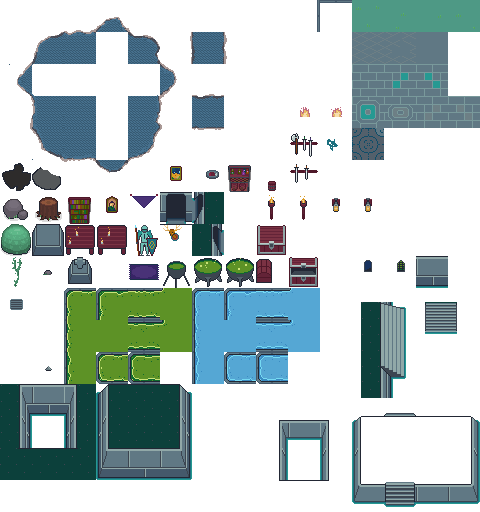
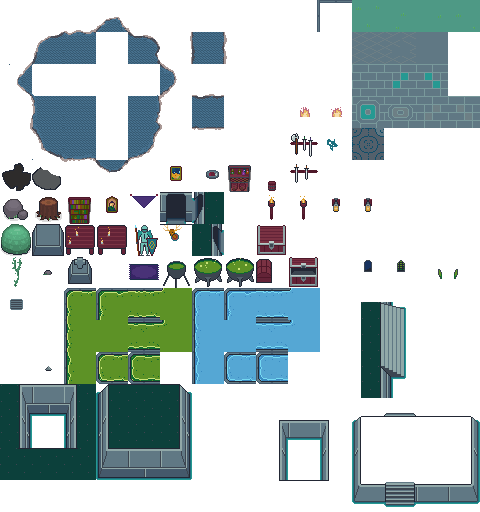
Add window for sidewall

Changed region(s): [[0.8438, 0.5, 0.9688, 0.6562]]

diff --git a/src/textures.rs b/src/textures.rs
@@ -588,6 +588,8 @@ pub enum TerrainId {
     WallOpeningWest,
     WallWindow,
     WallWindow2,
+    WallWindow2Left,
+    WallWindow2Right,
     SuitOfArmor,
     AnimalHead,
     Torch,
@@ -829,6 +831,8 @@ pub fn terrain_atlas_area(terrain_id: TerrainId, screen_pos: (f32, f32)) -> (f32
         TerrainId::Chest => (9, 8),
         TerrainId::WallWindow => (11, 8),
         TerrainId::WallWindow2 => (12, 8),
+        TerrainId::WallWindow2Left => (13, 8),
+        TerrainId::WallWindow2Right => (14, 8),
 
         TerrainId::WallOpeningNorth => (5, 6),
         TerrainId::WallOpeningEast => (6, 6),

diff --git a/src/bin/editor.rs b/src/bin/editor.rs
@@ -616,6 +616,8 @@ impl Sidebar {
             TerrainId::WallFlag,
             TerrainId::WallWindow,
             TerrainId::WallWindow2,
+            TerrainId::WallWindow2Left,
+            TerrainId::WallWindow2Right,
             TerrainId::Torch,
             TerrainId::Lantern,
             TerrainId::WallPlant,
